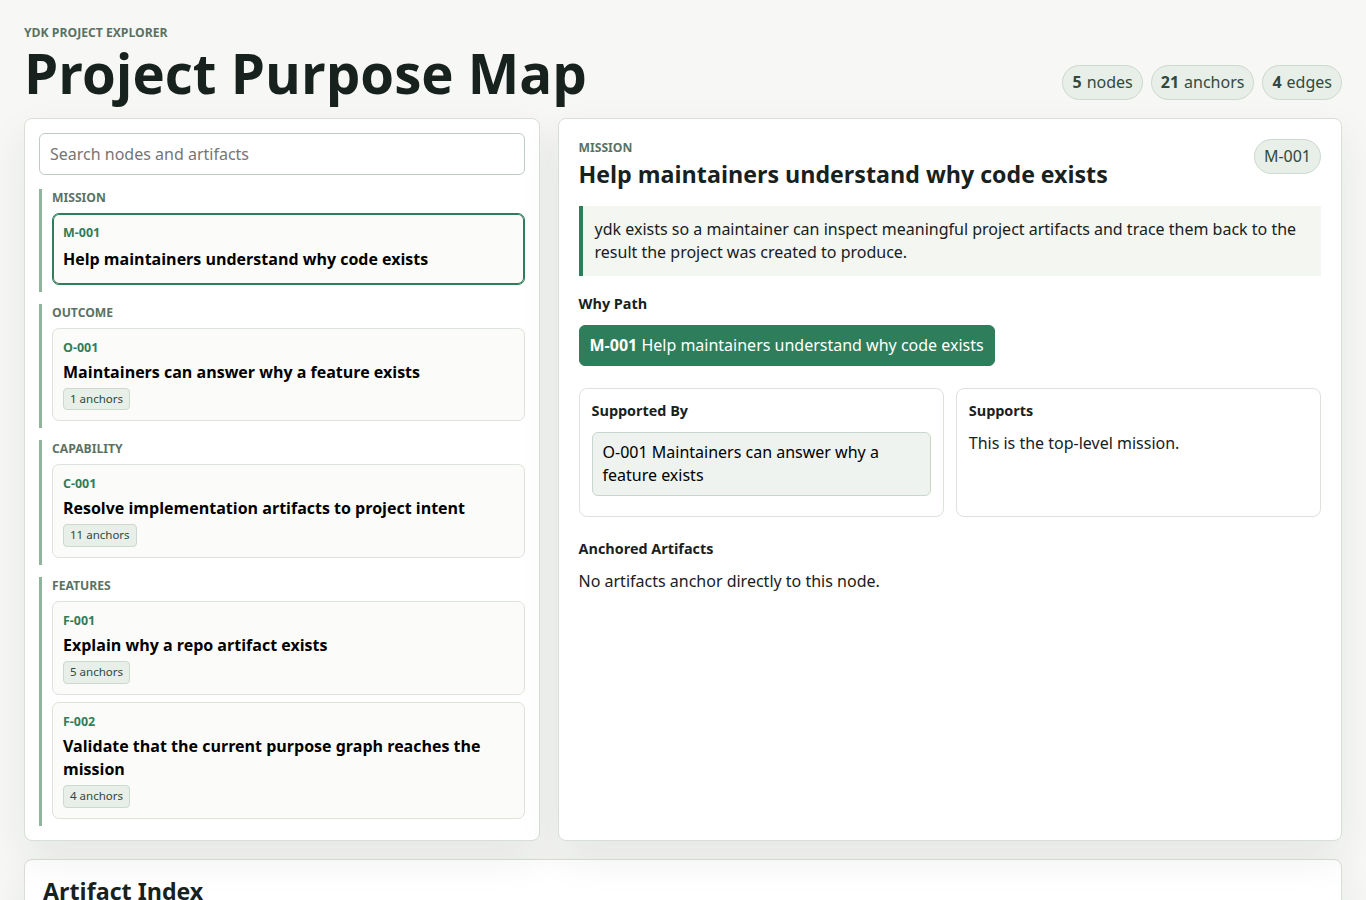
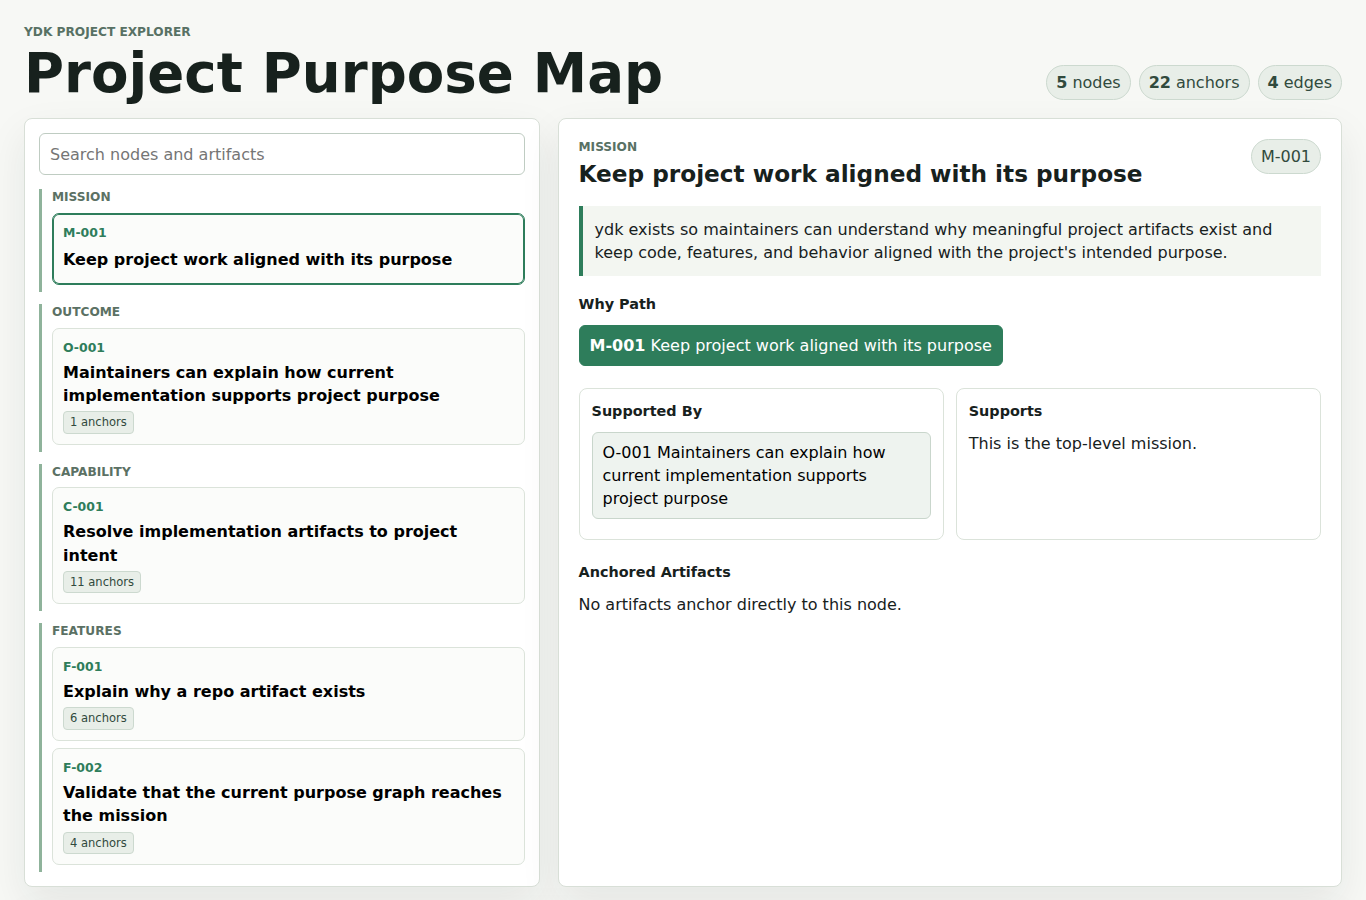
Align purpose graph with durable product intent

diff --git a/docs/MODEL.md b/docs/MODEL.md
@@ -13,9 +13,14 @@ validation rules used by `ydk`.
 - `mission`: the top-level reason the project exists.
 - `outcome`: an observable result that supports the mission.
 - `capability`: a durable ability the project needs in order to produce an outcome.
-- `feature`: a concrete behavior that provides or supports a capability.
+- `feature`: a concrete, repeatable product behavior that provides or supports a capability.
 
 Every project must have exactly one `mission` node.
+
+Nodes describe durable product purpose, not tasks, milestones, named onboarding
+runs, or other project-management state. Whether the implementation currently
+fulfills a node is a separate concern from whether that purpose belongs in the
+graph; `ydk` does not currently score that alignment.
 
 ## Built-In Edge Types
 

diff --git a/README.md b/README.md
@@ -1,6 +1,6 @@
 # ydk
 
-`ydk` is a minimal example of a "why development kit": a repo-local purpose graph that can explain why meaningful artifacts exist.
+`ydk` is a minimal example of a "why development kit": a repo-local purpose graph that connects meaningful artifacts to their intended purpose.
 
 This repository dogfoods the idea. `ydk` has a small built-in model, and the `.ydk/` directory defines the graph and anchors that connect project intent to this repository's own files.
 
